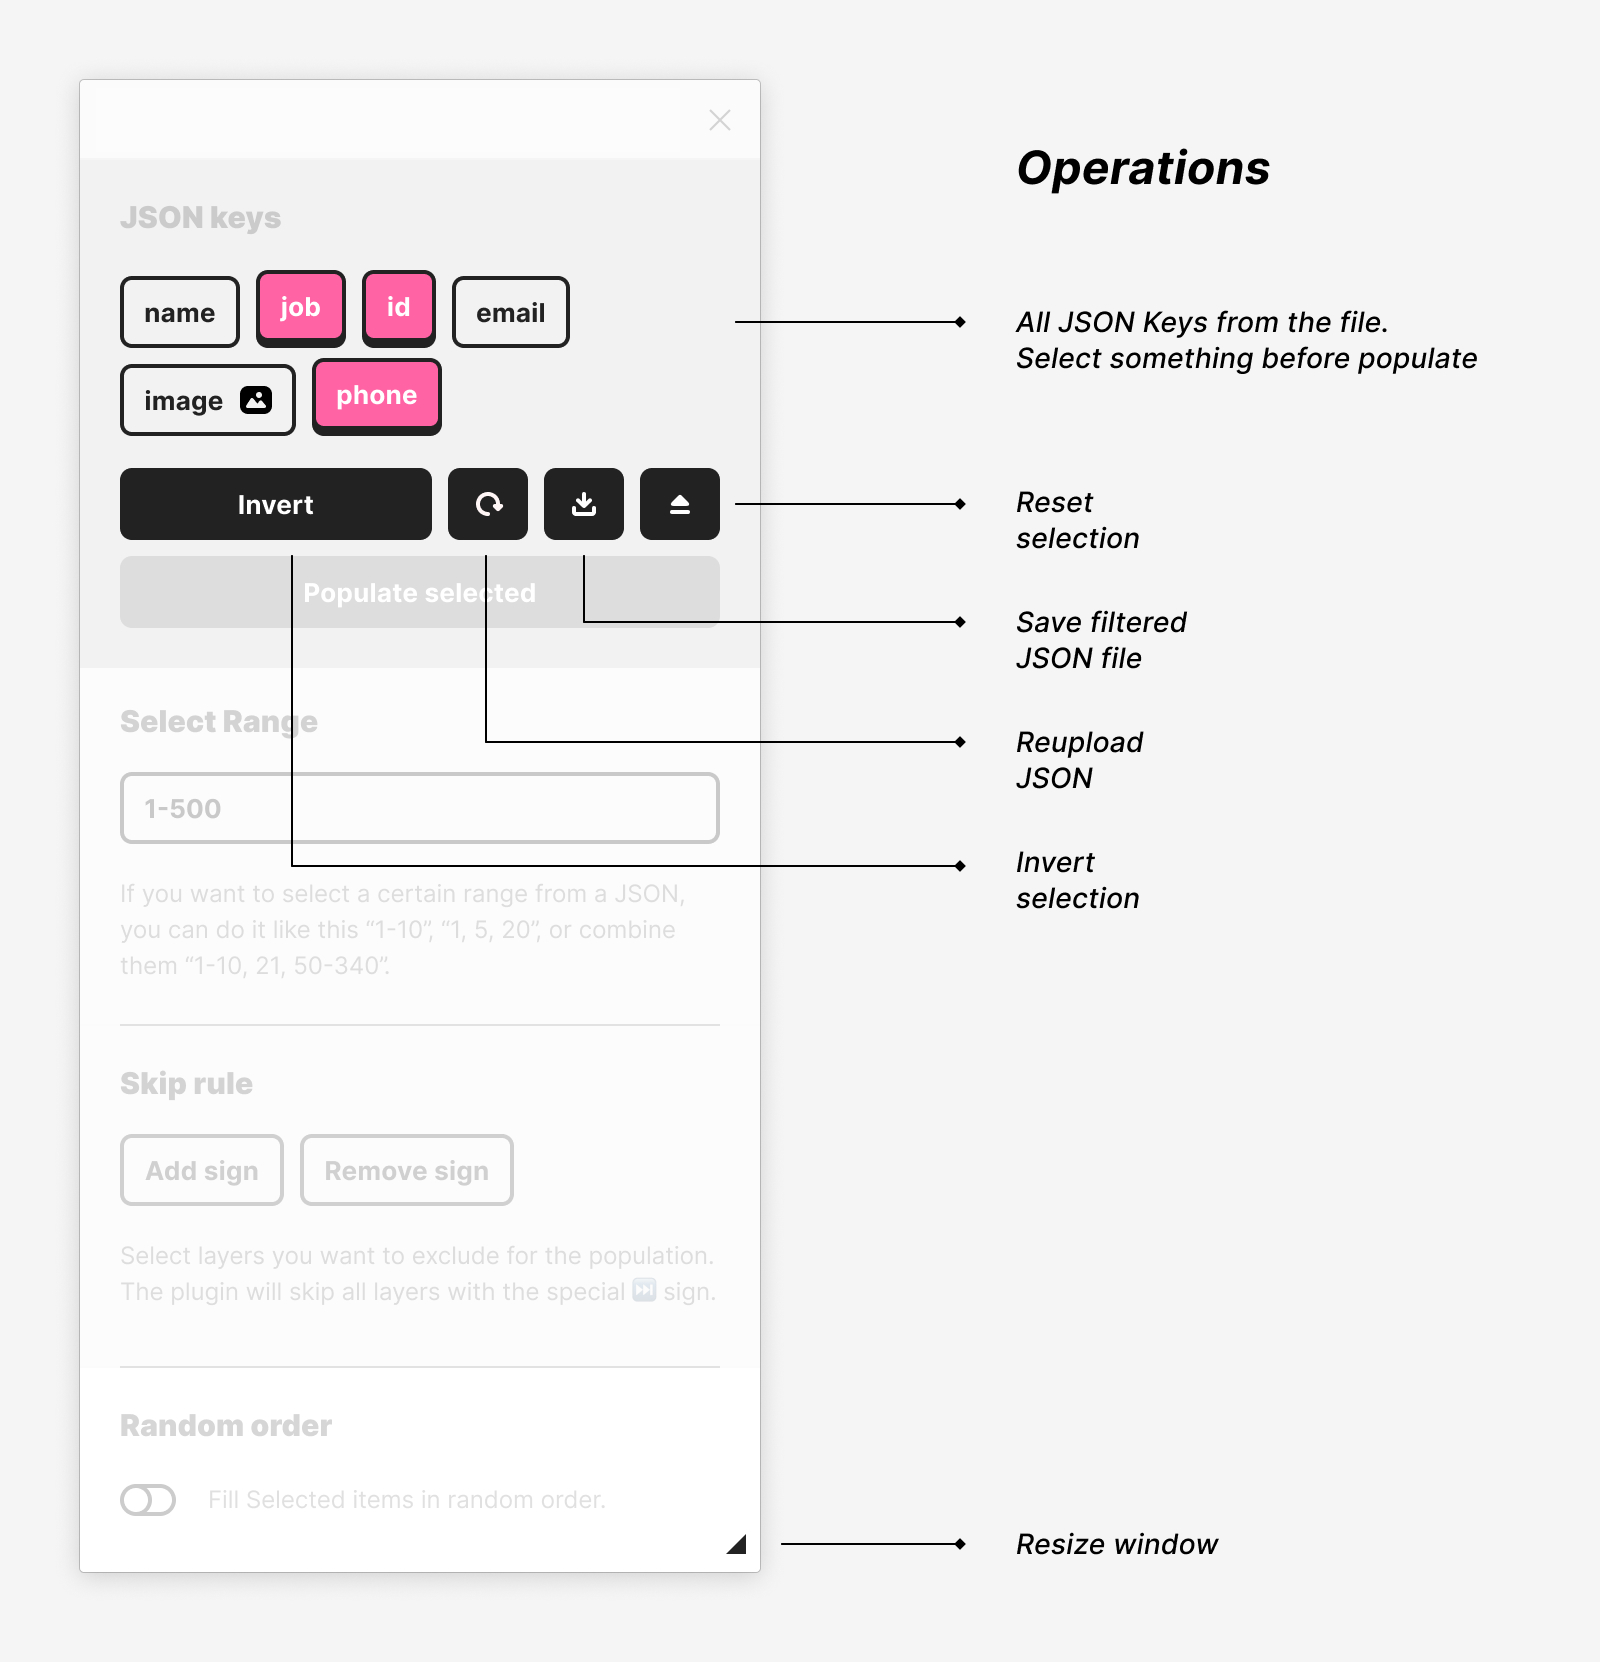
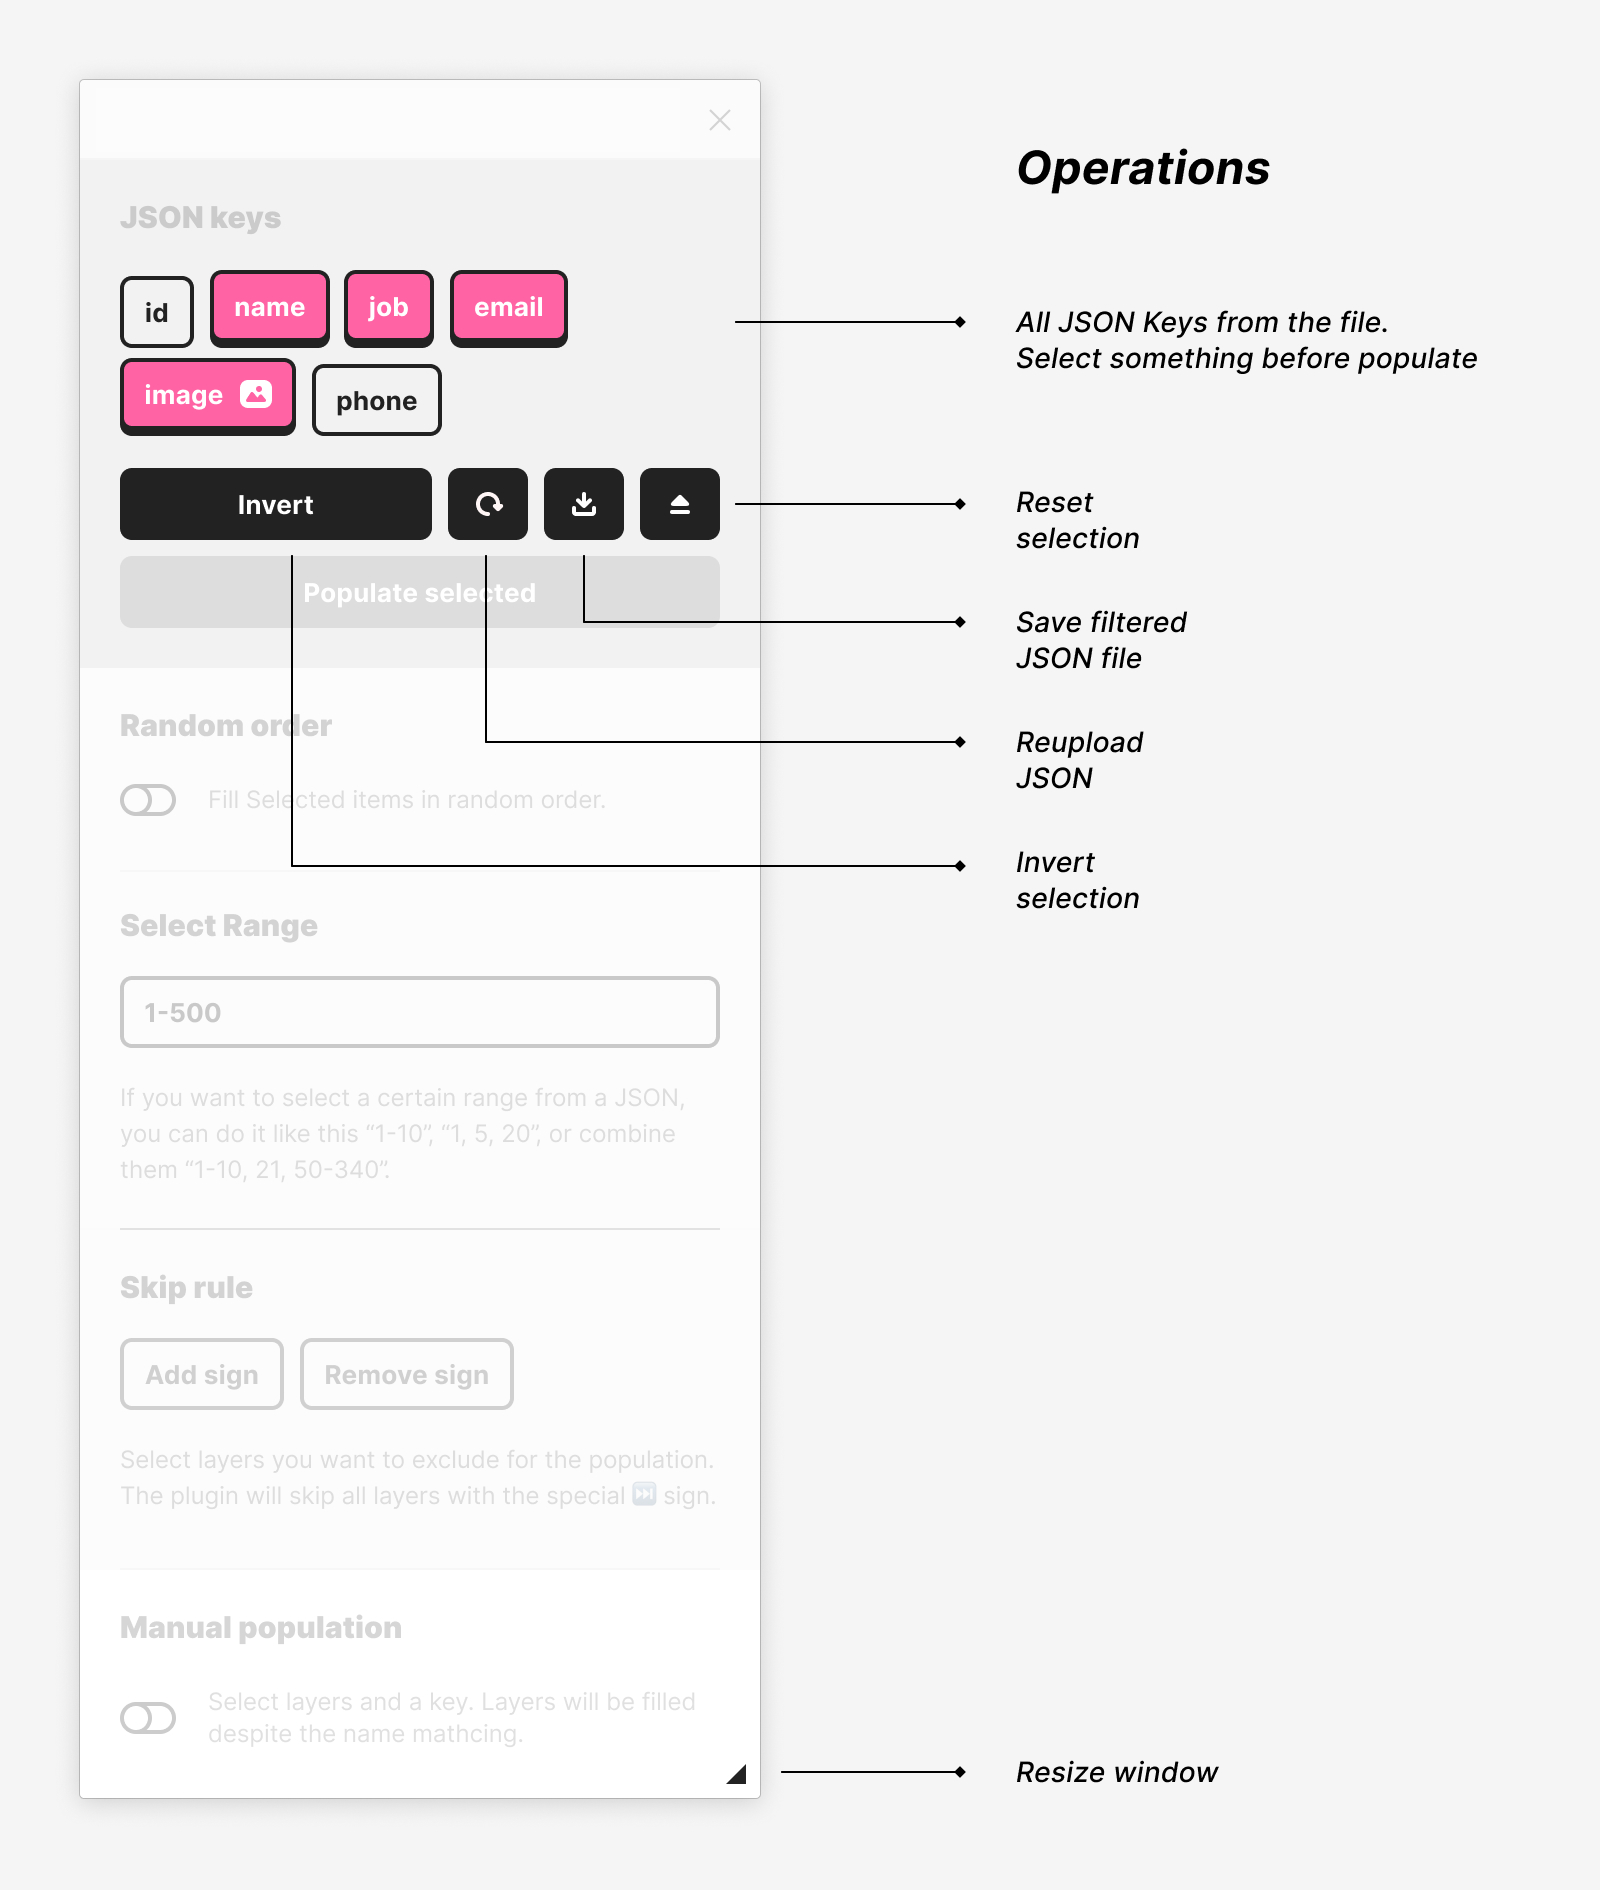
:rocket: new version 4.2

diff --git a/src/plugin/controller.ts b/src/plugin/controller.ts
@@ -5,18 +5,6 @@ import {skipSign} from '../data/skipSign';
 // SHOW UI
 figma.showUI(__html__, {width: pluginFrameSize.width, height: pluginFrameSize.height});
 
-// HANDLE PLUGIN STORAGE
-const storageID = 'JSONtoFigma';
-figma.ui.postMessage({type: 'get-plugin-storage', data: figma.root.getPluginData(storageID)});
-// const storageData = figma.root.getPluginData(storageID);
-
-// const getPluginStorage = () => {
-//     const storageData = figma.root.getPluginData(storageID);
-//     console.log(storageData);
-// };
-
-// getPluginStorage();
-
 // ON MESSAGE
 figma.ui.onmessage = msg => {
     const isRandom = arr => {
@@ -30,7 +18,6 @@ figma.ui.onmessage = msg => {
         let selectedArray = msg.selected;
         const selection = isRandom(figma.currentPage.selection);
         const obj = isRandom(msg.obj);
-        console.log(obj);
 
         // POPULATE
         if (!isSelectionLength) {
@@ -99,16 +86,6 @@ figma.ui.onmessage = msg => {
     }
     if (msg.type === 'manual-resize') {
         figma.ui.resize(Math.round(msg.size.width), Math.round(msg.size.height));
-    }
-
-    // STORAGE
-    if (msg.type === 'reset') {
-        figma.root.setPluginData(storageID, '');
-    }
-
-    if (msg.type === 'post-plugin-storage') {
-        // console.log('data', msg);
-        figma.root.setPluginData(storageID, JSON.stringify(msg));
     }
 };
 

diff --git a/src/app/components/views/OperationsView/index.tsx b/src/app/components/views/OperationsView/index.tsx
@@ -26,7 +26,7 @@ const OperationsView: React.FunctionComponent<Props> = props => {
     const mainSectionRef = React.useRef(null);
 
     React.useEffect(() => {
-        const frameHeight = mainSectionRef.current.getBoundingClientRect().height;
+        const frameHeight = mainSectionRef.current.getBoundingClientRect().height + 10;
         parent.postMessage({pluginMessage: {type: 'change-size', frameHeight}}, '*');
     }, [isManualSwitch]);
 
@@ -67,10 +67,11 @@ const OperationsView: React.FunctionComponent<Props> = props => {
                             random={isRandomSwitch}
                         />
                     )}
-                    <ManualPopulationSwitcher onChange={handleManualSwitcher} />
+
                     <RandomSwitcher onChange={handleRandomSwitcher} />
                     <SelectRange error={rangeError} onChange={handleRangeInput} value={`1-${JSONobject.length}`} />
                     <SkipLayers />
+                    <ManualPopulationSwitcher onChange={handleManualSwitcher} />
                 </main>
             )}
         </ViewContext.Consumer>

diff --git a/src/app/components/views/OperationsView/sections/SkipLayers/index.tsx b/src/app/components/views/OperationsView/sections/SkipLayers/index.tsx
@@ -20,7 +20,7 @@ const SkipLayers: React.FC<Props> = props => {
     };
 
     return (
-        <SectionWrapper className={styles.wrap} onChange={props.onSectionChange} title="Skip by special sign">
+        <SectionWrapper divider className={styles.wrap} onChange={props.onSectionChange} title="Skip by special sign">
             <ElementCaption
                 text={`Select layers you want to exclude for the population. The plugin will skip all layers with the special ${skipSign} sign.`}
             >

diff --git a/src/app/components/views/OperationsView/sections/ManualPopulationSwitcher/index.tsx b/src/app/components/views/OperationsView/sections/ManualPopulationSwitcher/index.tsx
@@ -9,7 +9,7 @@ interface Props {
 
 const ManualPopulationSwitcher: React.FC<Props> = props => {
     return (
-        <SectionWrapper divider title="Manual population" onChange={props.onChange}>
+        <SectionWrapper title="Manual population" onChange={props.onChange}>
             <Switcher
                 id="manual-population"
                 label="Select layers and a key. Layers will be filled despite the name mathcing."

diff --git a/README.md b/README.md
@@ -1,4 +1,4 @@
-# JSON to Figma 4.0
+# JSON to Figma 4.2
 
 ![plugin preview](readme-images/cover.jpg)
 
@@ -17,6 +17,7 @@ The plugin can parse local or JSON files from a URL link. You can populate any l
 -   **Invert** selected keys
 -   **Download** filtered JSON
 -   Populate **in random order**
+-   Manual Popualtion
 -   Select any **ranges** from JSON file
 -   the **"skip" rule** for layers you won't populate
 -   Handle `null` values
@@ -57,6 +58,8 @@ All you need is a [proper JSON](#-valid-json-structure). The plugin will parse s
 **`Random order`** — If you switch it on all items will be filled in a random order. By default, all your layers will be filled in order.
 
 **`Image URLs recognition`** — The plugin will automaticly recognise values from a JSON that end with .JPG, .PNG, .GIF or .WEBP as images. if you name a shape or a frame with the name of the key — the pllugin wil fetch the image by URL and add it as a fill.
+
+**`Manual population`** — The plugin populates layers automatically by their names. But you can populate layers manually, despite their names. Select a key in the plugin and then select layers you want to populate. Acceptable for images also.
 
 ---
 
